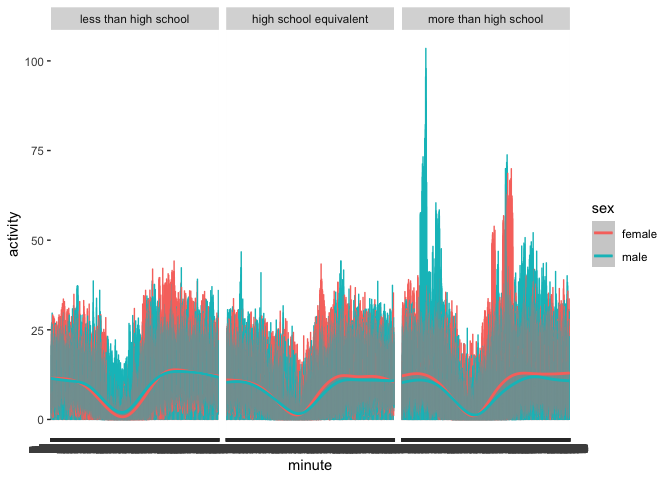
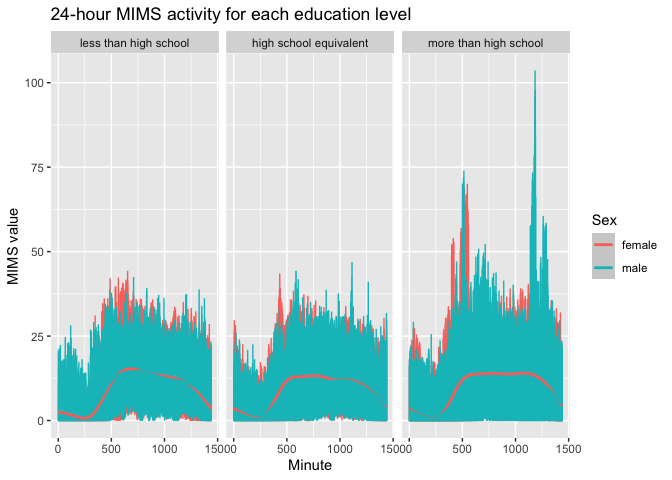
added labels and descriptions for plots in problems 2 and 3

diff --git a/p8105_hw3_smy2122.md b/p8105_hw3_smy2122.md
@@ -147,7 +147,7 @@ brffs_df =
   select(year, state, county, topic, response, data_value)
 ```
 
-Now, I will identify the states that were observed at 7 or more
+The tables below show the states that were observed at 7 or more
 locations in 2002 and 2010.
 
 ``` r
@@ -200,8 +200,10 @@ brffs_df |>
 | PA    | 2010 |   7 |
 | SC    | 2010 |   7 |
 
-Now, I will make a spaghetti plot showing the average value over time
-for each state from 2002 to 2010.
+Below is a spaghetti plot showing the average value over time for each
+state from 2002 to 2010. Overall, the plot shows a slight decrease in
+mean value over time across most states despite immense variation across
+state and year.
 
 ``` r
 brffs_df |>
@@ -220,7 +222,9 @@ brffs_df |>
 ![](p8105_hw3_smy2122_files/figure-gfm/spaghetti%20plot-1.png)<!-- -->
 
 Below is a two-panel plot showing the distribution of data value for
-responses among locations in New York State in 2006 and 2010.
+responses among locations in New York State in 2006 and 2010. The plot
+shows that data values were highest for “Very good” and “Good” responses
+in both 2006 and 2010.
 
 ``` r
 brffs_df |>
@@ -242,7 +246,13 @@ brffs_df |>
 
 # Problem 3
 
-First, I will import, clean, and tidy the two data sets.
+First, I will import, clean, and tidy the two data sets. As part of data
+cleaning for the demographics data set, I will remove the unnecessary
+rows, set missing values, clean variable names, exclude participants
+under age 21, drop those with missing demographic data, encode sex and
+education as factors, and re-level education. Data cleaning for the
+accelerometer data set only needs cleaning variable names, as there are
+no unnecessary rows and no missing values.
 
 ``` r
 demographic_df =
@@ -277,7 +287,8 @@ accelerometer_df =
   janitor::clean_names()
 ```
 
-Now, I will merge the two data sets.
+Now, I will merge the two data sets using an inner join to only show
+participants in both data sets.
 
 ``` r
 merged_df =
@@ -304,17 +315,22 @@ merged_df |>
 | female |                    28 |                     23 |                    59 |
 | male   |                    27 |                     35 |                    56 |
 
-Below is a visualization of the age distributions for men and women in
-each education category.
+Below is a box plot of the age distributions for men and women in each
+education category.
 
 ``` r
 merged_df |>
   ggplot(aes(x = sex, y = age)) +
   geom_boxplot() +
-  facet_grid(. ~ education)
+  facet_grid(. ~ education) +
+  labs(
+    x = "Sex",
+    y = "Age",
+    title = "Age distribution among men and women in each education category"
+  )
 ```
 
-![](p8105_hw3_smy2122_files/figure-gfm/visualization-1.png)<!-- -->
+![](p8105_hw3_smy2122_files/figure-gfm/age%20distribution%20plot-1.png)<!-- -->
 
 ``` r
 merged_df |>
@@ -325,29 +341,44 @@ merged_df |>
     values_to = "activity"
   ) |>
   mutate(total_activity = sum(activity)) |>
-  ungroup() |>
   select(seqn, sex, age, bmi, education, total_activity) |>
   ggplot(aes(x = age, y = total_activity)) +
   geom_point() +
   geom_smooth() +
-  facet_grid(sex ~ education)
+  facet_grid(sex ~ education) +
+  labs(
+    x = "Age",
+    y = "Total MIMS activity over the day",
+    title = "Comparison of the total activity over the day for men and women of each education level"
+  )
 ```
 
     ## `geom_smooth()` using method = 'gam' and formula = 'y ~ s(x, bs = "cs")'
 
-![](p8105_hw3_smy2122_files/figure-gfm/plot-1.png)<!-- -->
+![](p8105_hw3_smy2122_files/figure-gfm/total%20activity%20plot-1.png)<!-- -->
+
+Below is a three-panel plot that shows the 24-hour activity time courses
+for each education level.
 
 ``` r
 merged_df |>
   pivot_longer(
     min1:min1440,
     names_to = "minute",
+    names_prefix = "min",
     values_to = "activity"
   ) |>
+  mutate(minute = as.numeric(minute)) |>
   ggplot(aes(x = minute, y = activity, color = sex)) +
   geom_line() +
   geom_smooth(aes(group = sex)) +
-  facet_grid(. ~ education)
+  facet_grid(. ~ education) +
+  labs(
+    x = "Minute",
+    y = "MIMS value",
+    color = "Sex",
+    title = "24-hour MIMS activity for each education level"
+  )
 ```
 
     ## `geom_smooth()` using method = 'gam' and formula = 'y ~ s(x, bs = "cs")'
